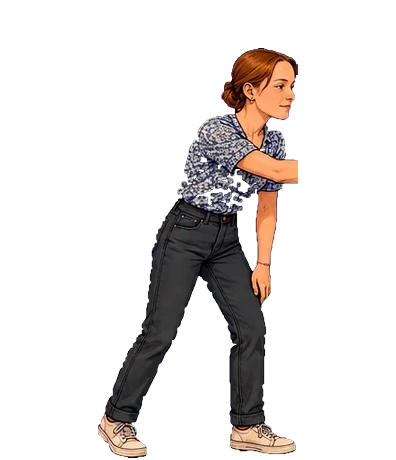
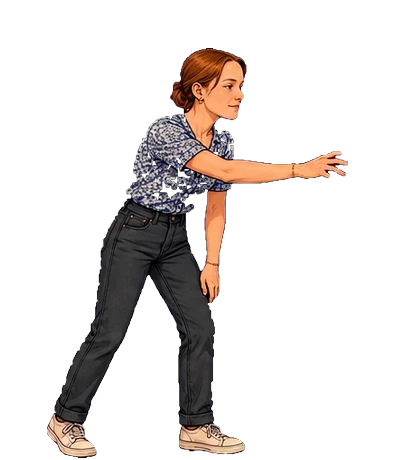
callaghan v7.28 : Mathilde Bobito entre au D'Tour
Nouveau personnage, et le premier du bar a arriver avec ses TREIZE poses
d'un coup : rien a replier chez elle, elle marche, boit, tangue, danse et
s'assoit des son arrivee.

LE SURNOM FAIT LA CLE. Elle porte le meme prenom que Mathilde, au bar
depuis le debut. Remy l'appelle Bobito, et c'est ce nom-la qui sert
d'identifiant dans le code comme dans les dialogues : deux Mathilde au
comptoir, et plus personne ne sait de qui on parle.

Prof d'anglais, un chien avec Remy - Chaussette -, et la piste de danse
des que l'ambiance monte. Elle connait Remy, Tristan et Solene ; Thibaut
l'a deja rencontree, PF jamais. Huit echanges de comptoir et quatre
repliques a elle.

UN TROISIEME DEFAUT DU DECOUPEUR, trouve par sa planche : un BRAS TENDU
elargit une pose sans qu'il y ait deux personnages. Sa pose attrape fait
312 px pour une mediane de 192, soit 1,63 - le separateur de blocs larges
la coupait en deux et la moitie gauche passait pour une pose entiere. Le
seuil monte a 1,9 ; deux poses qui se touchent font au moins deux fois la
mediane.

Il corrige au passage Kevin et Solene, dont les configs detectaient une
composante parasite - la main tendue, la aussi.

diff --git a/callaghan/index.html b/callaghan/index.html
@@ -783,7 +783,7 @@ kbd{
     <div class="lecture" id="dLecture"></div>
   </div>
 
-  <div id="version">CALLAGHAN v7.27</div>
+  <div id="version">CALLAGHAN v7.28</div>
 
   <div id="pupitre2">
     <button class="cmd2" id="c2G" aria-label="Aller à gauche">◀</button>
@@ -855,7 +855,7 @@ kbd{
      UIManager         -> Interface
 ================================================================== */
 
-const VERSION = "7.27";
+const VERSION = "7.28";
 
 /* ---------- géométrie ----------
    Tout est exprimé en « unités monde », où un personnage mesure
@@ -1933,6 +1933,7 @@ const IMAGES_NIVEAU3 = [
   "bar_kevin_titube", "bar_kevin_danse1", "bar_kevin_assis_tabouret",
   "bar_remy_idle", "bar_remy_marche1", "bar_remy_marche2",
   "bar_remy_attrape", "bar_remy_boit", "bar_remy_vide",
+  "bar_bobito_idle", "bar_bobito_idle2", "bar_bobito_marche1", "bar_bobito_marche2", "bar_bobito_attrape", "bar_bobito_boit", "bar_bobito_vide", "bar_bobito_titube", "bar_bobito_danse1", "bar_bobito_danse2", "bar_bobito_assis_tabouret", "bar_bobito_assis_canape", "bar_bobito_assis_verre",
   "bar_remy_titube", "bar_remy_danse1", "bar_remy_assis_tabouret",
   "bar_hortense_marche1", "bar_hortense_marche2", "bar_hortense_tarte",
 ].concat(PREFIXES_BAR.flatMap(pr => POSES_BAR.map(po => pr + "_" + po)));
@@ -4751,10 +4752,16 @@ const LIENS = {
   gabi:     { pf:true,  th:false, amis:["solene", "teo", "charles"] },
   charles:  { pf:true,  th:false, amis:["gabi"] },
   mathilde: { pf:false, th:true,  amis:["solene", "remy", "kevin", "tristan"] },
-  tristan:  { pf:true,  th:true,  amis:["solene", "kevin", "remy", "mathilde"] },
-  solene:   { pf:false, th:false, amis:["tristan", "mathilde", "kevin", "gabi"] },
+  tristan:  { pf:true,  th:true,  amis:["solene", "kevin", "remy", "mathilde", "bobito"] },
+  solene:   { pf:false, th:false, amis:["tristan", "mathilde", "kevin", "gabi", "bobito"] },
   kevin:    { pf:true,  th:true,  amis:["tristan", "mathilde", "solene", "remy"] },
-  remy:     { pf:true,  th:true,  amis:["mathilde", "tristan", "kevin", "teo"] },
+  remy:     { pf:true,  th:true,  amis:["bobito", "mathilde", "tristan", "kevin", "teo"] },
+  /* MATHILDE BOBITO, la compagne de Rémy. Elle porte le même prénom que
+     l'autre Mathilde — d'où la clé `bobito`, qui est le surnom que Rémy
+     lui donne et le seul moyen de ne pas confondre les deux dans un
+     dialogue. Elle connaît Thibaut, Tristan et Solène ; PF ne l'a jamais
+     rencontrée. */
+  bobito:   { pf:false, th:true,  amis:["remy", "tristan", "solene"] },
   marini:   { pf:false, th:false, amis:[] },
   martin:   { pf:false, th:false, amis:[] },
   francky:  { pf:false, th:false, amis:["mathilde"] },
@@ -8419,6 +8426,12 @@ const BAR_CLIENTS = [
     prefixe:"bar_kevin", gestes:true },
   { id:"remy", sprite:"bar_remy_idle", nom:"RÉMY", taille:0.93,
     prefixe:"bar_remy", gestes:true },
+  /* MATHILDE BOBITO. Elle arrive avec ses treize poses d'un coup — la
+     première du bar dans ce cas — donc rien à replier chez elle. Son id
+     est `bobito` et pas `mathilde` : deux Mathilde dans les dialogues du
+     comptoir, et plus personne ne sait de qui on parle. */
+  { id:"bobito", sprite:"bar_bobito_idle", nom:"MATHILDE BOBITO", taille:0.90,
+    prefixe:"bar_bobito", gestes:true },
 ];
 const BAR_ESQUIVE_FENETRE = 0.62;   /* même fenêtre qu'au niveau 2 : un pouce, pas une souris */
 const BAR_ESQUIVE_PTS = 200;
@@ -10221,7 +10234,14 @@ const FOULE_PHRASES = {
   solene:   ["Tu as vu qui est là ?", "Je préviens Mathilde.",
              "Chocho, c'est elle qui a commencé."],
   kevin:    ["C'est ma tournée. Enfin, presque.", "Jägerbombs. Point."],
-  remy:     ["Le premier qui craque paie.", "J'ai vu Teo boire de l'eau."],
+  remy:     ["Le premier qui craque paie.", "J'ai vu Teo boire de l'eau.",
+             "BOBITO ! Tu bois quoi ?"],
+  /* MATHILDE BOBITO. Ses trois sujets, et elle y revient : le chien, ses
+     élèves, et la piste de danse. */
+  bobito:   ["Chaussette a mangé une chaussette.",
+             "Mes troisièmes ignorent le prétérit.",
+             "Il est où, Rémy ? Il danse pas.",
+             "On en reprend un et on danse."],
   marini:   ["La municipalité soutient ce lieu.", "Un buffet non conforme."],
   martin:   ["Je suis pas en service.", "Enfin, un peu quand même."],
   commun:   ["Il en met du temps.", "Tu reprends quelque chose ?",
@@ -10256,6 +10276,21 @@ const FOULE_DISCUSSIONS = {
     ["Teo avait dit cinq minutes.", "Il est là depuis dix-neuf heures."],
     ["Solène a tout raconté à Mathilde.", "Évidemment.", "En trois minutes."],
     ["Mathilde l'appelle Chocho.", "Qui ça ?", "Solène.", "Ah. Chocho, alors."],
+    ["Rémy dit Bobito à tout bout de champ.", "C'est sa copine.",
+     "Je sais, mais à CHAQUE phrase."],
+    ["Bobito a ramené des photos du chien.", "Encore ?", "Trente-quatre."],
+    ["Le chien s'appelle Chaussette.", "C'est mignon.",
+     "Attends de voir ce qu'il fait aux chaussettes."],
+    ["Bobito est prof d'anglais.", "Elle corrige nos fautes ?",
+     "Que celles en anglais. Pour le reste elle a renoncé."],
+    ["Elle danse depuis tout à l'heure.", "Bobito ?", "Bobito.",
+     "Elle s'arrêtera pas."],
+    ["Rémy essaie de suivre.", "En danse ?", "En danse.",
+     "Il devrait pas."],
+    ["Bobito a dit un truc en anglais.", "Et ?",
+     "On a tous hoché la tête."],
+    ["Elle veut un deuxième chien.", "Rémy sait ?",
+     "Rémy l'apprend là, en fait."],
     ["Chocho a dit quoi ?", "Que t'allais demander.", "Elle dit toujours ça."],
     ["Y'a que Mathilde qui a le droit de dire Chocho.", "J'ai essayé une fois.",
      "Et ?", "Une fois."],

diff --git a/callaghan/parts/k_foule.js b/callaghan/parts/k_foule.js
@@ -126,7 +126,14 @@ const FOULE_PHRASES = {
   solene:   ["Tu as vu qui est là ?", "Je préviens Mathilde.",
              "Chocho, c'est elle qui a commencé."],
   kevin:    ["C'est ma tournée. Enfin, presque.", "Jägerbombs. Point."],
-  remy:     ["Le premier qui craque paie.", "J'ai vu Teo boire de l'eau."],
+  remy:     ["Le premier qui craque paie.", "J'ai vu Teo boire de l'eau.",
+             "BOBITO ! Tu bois quoi ?"],
+  /* MATHILDE BOBITO. Ses trois sujets, et elle y revient : le chien, ses
+     élèves, et la piste de danse. */
+  bobito:   ["Chaussette a mangé une chaussette.",
+             "Mes troisièmes ignorent le prétérit.",
+             "Il est où, Rémy ? Il danse pas.",
+             "On en reprend un et on danse."],
   marini:   ["La municipalité soutient ce lieu.", "Un buffet non conforme."],
   martin:   ["Je suis pas en service.", "Enfin, un peu quand même."],
   commun:   ["Il en met du temps.", "Tu reprends quelque chose ?",
@@ -161,6 +168,21 @@ const FOULE_DISCUSSIONS = {
     ["Teo avait dit cinq minutes.", "Il est là depuis dix-neuf heures."],
     ["Solène a tout raconté à Mathilde.", "Évidemment.", "En trois minutes."],
     ["Mathilde l'appelle Chocho.", "Qui ça ?", "Solène.", "Ah. Chocho, alors."],
+    ["Rémy dit Bobito à tout bout de champ.", "C'est sa copine.",
+     "Je sais, mais à CHAQUE phrase."],
+    ["Bobito a ramené des photos du chien.", "Encore ?", "Trente-quatre."],
+    ["Le chien s'appelle Chaussette.", "C'est mignon.",
+     "Attends de voir ce qu'il fait aux chaussettes."],
+    ["Bobito est prof d'anglais.", "Elle corrige nos fautes ?",
+     "Que celles en anglais. Pour le reste elle a renoncé."],
+    ["Elle danse depuis tout à l'heure.", "Bobito ?", "Bobito.",
+     "Elle s'arrêtera pas."],
+    ["Rémy essaie de suivre.", "En danse ?", "En danse.",
+     "Il devrait pas."],
+    ["Bobito a dit un truc en anglais.", "Et ?",
+     "On a tous hoché la tête."],
+    ["Elle veut un deuxième chien.", "Rémy sait ?",
+     "Rémy l'apprend là, en fait."],
     ["Chocho a dit quoi ?", "Que t'allais demander.", "Elle dit toujours ça."],
     ["Y'a que Mathilde qui a le droit de dire Chocho.", "J'ai essayé une fois.",
      "Et ?", "Une fois."],

diff --git a/callaghan/parts/f_enquete.js b/callaghan/parts/f_enquete.js
@@ -679,10 +679,16 @@ const LIENS = {
   gabi:     { pf:true,  th:false, amis:["solene", "teo", "charles"] },
   charles:  { pf:true,  th:false, amis:["gabi"] },
   mathilde: { pf:false, th:true,  amis:["solene", "remy", "kevin", "tristan"] },
-  tristan:  { pf:true,  th:true,  amis:["solene", "kevin", "remy", "mathilde"] },
-  solene:   { pf:false, th:false, amis:["tristan", "mathilde", "kevin", "gabi"] },
+  tristan:  { pf:true,  th:true,  amis:["solene", "kevin", "remy", "mathilde", "bobito"] },
+  solene:   { pf:false, th:false, amis:["tristan", "mathilde", "kevin", "gabi", "bobito"] },
   kevin:    { pf:true,  th:true,  amis:["tristan", "mathilde", "solene", "remy"] },
-  remy:     { pf:true,  th:true,  amis:["mathilde", "tristan", "kevin", "teo"] },
+  remy:     { pf:true,  th:true,  amis:["bobito", "mathilde", "tristan", "kevin", "teo"] },
+  /* MATHILDE BOBITO, la compagne de Rémy. Elle porte le même prénom que
+     l'autre Mathilde — d'où la clé `bobito`, qui est le surnom que Rémy
+     lui donne et le seul moyen de ne pas confondre les deux dans un
+     dialogue. Elle connaît Thibaut, Tristan et Solène ; PF ne l'a jamais
+     rencontrée. */
+  bobito:   { pf:false, th:true,  amis:["remy", "tristan", "solene"] },
   marini:   { pf:false, th:false, amis:[] },
   martin:   { pf:false, th:false, amis:[] },
   francky:  { pf:false, th:false, amis:["mathilde"] },

diff --git a/callaghan/parts/a_socle.js b/callaghan/parts/a_socle.js
@@ -18,7 +18,7 @@
      UIManager         -> Interface
 ================================================================== */
 
-const VERSION = "7.27";
+const VERSION = "7.28";
 
 /* ---------- géométrie ----------
    Tout est exprimé en « unités monde », où un personnage mesure
@@ -1096,6 +1096,7 @@ const IMAGES_NIVEAU3 = [
   "bar_kevin_titube", "bar_kevin_danse1", "bar_kevin_assis_tabouret",
   "bar_remy_idle", "bar_remy_marche1", "bar_remy_marche2",
   "bar_remy_attrape", "bar_remy_boit", "bar_remy_vide",
+  "bar_bobito_idle", "bar_bobito_idle2", "bar_bobito_marche1", "bar_bobito_marche2", "bar_bobito_attrape", "bar_bobito_boit", "bar_bobito_vide", "bar_bobito_titube", "bar_bobito_danse1", "bar_bobito_danse2", "bar_bobito_assis_tabouret", "bar_bobito_assis_canape", "bar_bobito_assis_verre",
   "bar_remy_titube", "bar_remy_danse1", "bar_remy_assis_tabouret",
   "bar_hortense_marche1", "bar_hortense_marche2", "bar_hortense_tarte",
 ].concat(PREFIXES_BAR.flatMap(pr => POSES_BAR.map(po => pr + "_" + po)));

diff --git a/callaghan/parts/h_bar.js b/callaghan/parts/h_bar.js
@@ -177,6 +177,12 @@ const BAR_CLIENTS = [
     prefixe:"bar_kevin", gestes:true },
   { id:"remy", sprite:"bar_remy_idle", nom:"RÉMY", taille:0.93,
     prefixe:"bar_remy", gestes:true },
+  /* MATHILDE BOBITO. Elle arrive avec ses treize poses d'un coup — la
+     première du bar dans ce cas — donc rien à replier chez elle. Son id
+     est `bobito` et pas `mathilde` : deux Mathilde dans les dialogues du
+     comptoir, et plus personne ne sait de qui on parle. */
+  { id:"bobito", sprite:"bar_bobito_idle", nom:"MATHILDE BOBITO", taille:0.90,
+    prefixe:"bar_bobito", gestes:true },
 ];
 const BAR_ESQUIVE_FENETRE = 0.62;   /* même fenêtre qu'au niveau 2 : un pouce, pas une souris */
 const BAR_ESQUIVE_PTS = 200;

diff --git a/callaghan/tests/tests.js b/callaghan/tests/tests.js
@@ -2618,7 +2618,11 @@ if (D){
       const b = fs.readFileSync(path.join(RACINE, "decouper_planche.py"), "utf8");
       return /def couper_au_creux/.test(b) &&
         /larg \/ n \* 0\.35/.test(b) && /larg \/ n \* 0\.35/.test(a) &&
-        /med \* 1\.6/.test(a) && /med \* 1\.6/.test(b);
+        /* 1,9 dans le découpeur, 1,6 dans planches.py : ce sont deux
+           outils différents, et seul le découpeur a rencontré une pose au
+           BRAS TENDU — 1,63 fois la médiane, coupée en deux, et la moitié
+           gauche prise pour une pose entière. */
+        /med \* 1\.6/.test(a) && /med \* 1\.9/.test(b);
     })());
 
   verifier("le fond magenta se reconnaît à sa FORME, pas à sa clarté",

diff --git a/callaghan/tests/apercu.js b/callaghan/tests/apercu.js
@@ -726,7 +726,7 @@ function jouerJusqua(D, condition, limite){
       }
     });
     /* Solène et le Maire, les deux dernières planches arrivées */
-    [["solene", "danse", 7], ["marini", "assis", 8]].forEach(([id, etat, t2], k) => {
+    [["bobito", "danse", 7], ["marini", "assis", 8]].forEach(([id, etat, t2], k) => {
       const m = D.Tournee.foule[6 + k];
       if (!m) return;
       m.ref = D.BAR_CLIENTS.find(c => c.id === id) || m.ref;

diff --git a/callaghan/decouper_planche.py b/callaghan/decouper_planche.py
@@ -159,7 +159,12 @@ def composantes(a, coupures):
         eclate = []
         for x1, y1, x2, y2, idx in gardes:
             n2 = max(1, round((x2 - x1) / max(1, med)))
-            if n2 == 1 or (x2 - x1) < med * 1.6:
+            # 1,9 ET NON 1,6. Un bras TENDU élargit une pose sans qu'il y
+            # ait deux personnages : celle de Bobito fait 312 px pour une
+            # médiane de 192, soit 1,63 — elle était coupée en deux, et
+            # la moitié gauche passait pour une pose entière. Deux poses
+            # qui se touchent, elles, font au moins deux fois la médiane.
+            if n2 == 1 or (x2 - x1) < med * 1.9:
                 eclate.append((x1, y1, x2, y2, idx)); continue
             bande = obj[y1:y2]
             for d, f in couper_au_creux(bande, x1, x2, n2):

diff --git a/callaghan/PERSONNAGES.md b/callaghan/PERSONNAGES.md
@@ -428,6 +428,29 @@ d'un type d'homme se défend, le récit d'un fait divers non.
 - Sa question : **« ai-je le temps d'interrompre son lancer ? »**
 - Sprites : `enn_abbe_*`, 19 poses.
 
+### MATHILDE BOBITO — la compagne de Rémy
+
+- **Le surnom fait la clé.** Elle porte le même prénom que Mathilde, qui
+  est au bar depuis le début. Rémy l'appelle **Bobito**, et c'est ce nom-là
+  qui sert d'identifiant dans le code (`bobito`) comme dans les dialogues :
+  deux Mathilde au comptoir, et plus personne ne sait de qui on parle.
+
+- **Professeure d'anglais.** Elle corrige les fautes des autres, mais
+  seulement en anglais — pour le reste elle a renoncé.
+
+- **Elle aime les animaux**, et elle a un chien avec Rémy : **Chaussette**.
+  Elle en a trente-quatre photos et elle les montre.
+
+- **Elle danse.** C'est le premier réflexe dès que l'ambiance monte, et
+  Rémy essaie de suivre — il ne devrait pas.
+
+- **Qui elle connaît** : Rémy, évidemment, puis Tristan et Solène. Thibaut
+  l'a déjà rencontrée, PF jamais.
+
+- **Treize poses d'un coup** — la première du bar dans ce cas : rien à
+  replier chez elle, elle marche, boit, tangue, danse et s'assoit dès son
+  arrivée.
+
 ### XAVIER LE TERRASSIER — le lanceur de pelle
 
 - **Personnage FICTIF**, contrairement aux cinq autres. C'est le premier du

diff --git a/callaghan/planches/LISEZMOI.md b/callaghan/planches/LISEZMOI.md
@@ -53,6 +53,8 @@ Rangées par `archiver.py`, jamais à la main.
 | `n1` | `heros_th_rue.webp` | 71 Ko |
 | `n2` | `heros_pf_policier.webp` | 163 Ko |
 | `n2` | `heros_th_policier.webp` | 147 Ko |
+| `n3` | `bobito-base.webp` | 189 Ko |
+| `n3` | `bobito-figurant.webp` | 201 Ko |
 | `n3` | `charles-figurant.webp` | 105 Ko |
 | `n3` | `comptoir_detoure.webp` | 113 Ko |
 | `n3` | `elements_decor.webp` | 210 Ko |
@@ -90,7 +92,7 @@ Rangées par `archiver.py`, jamais à la main.
 | `n4` | `xavier-pelle.webp` | 72 Ko |
 | `n4` | `xavier_reference.webp` | 111 Ko |
 
-**9.7 Mo au total.**
+**10.1 Mo au total.**
 
 ## 24 planches à identifier
 
